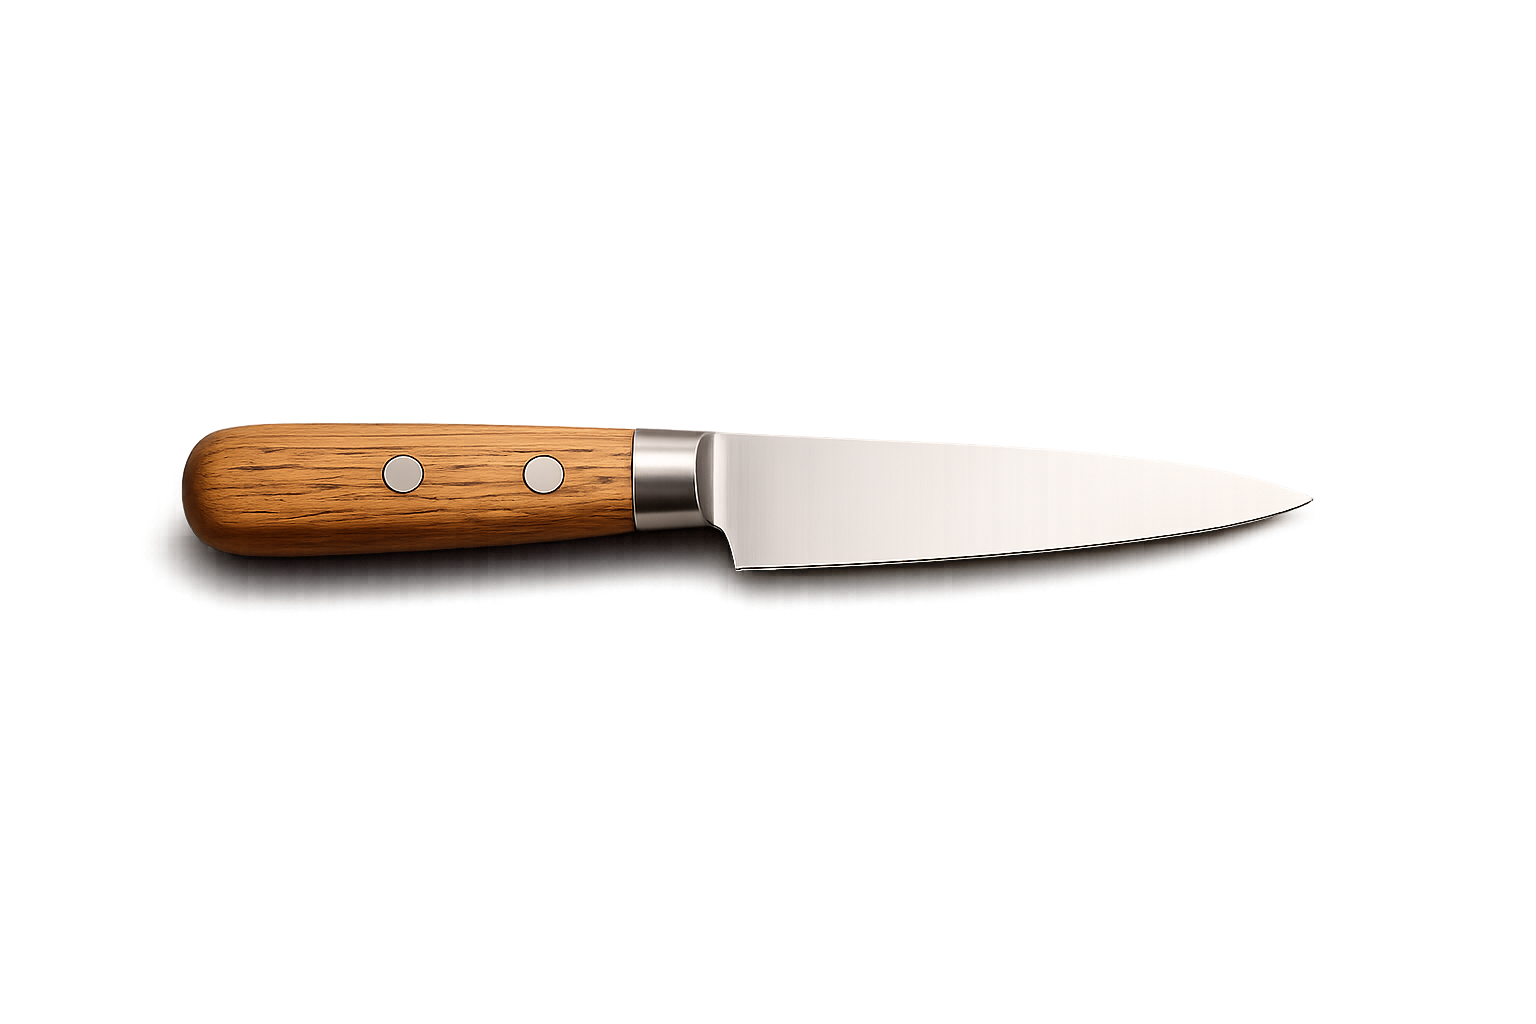
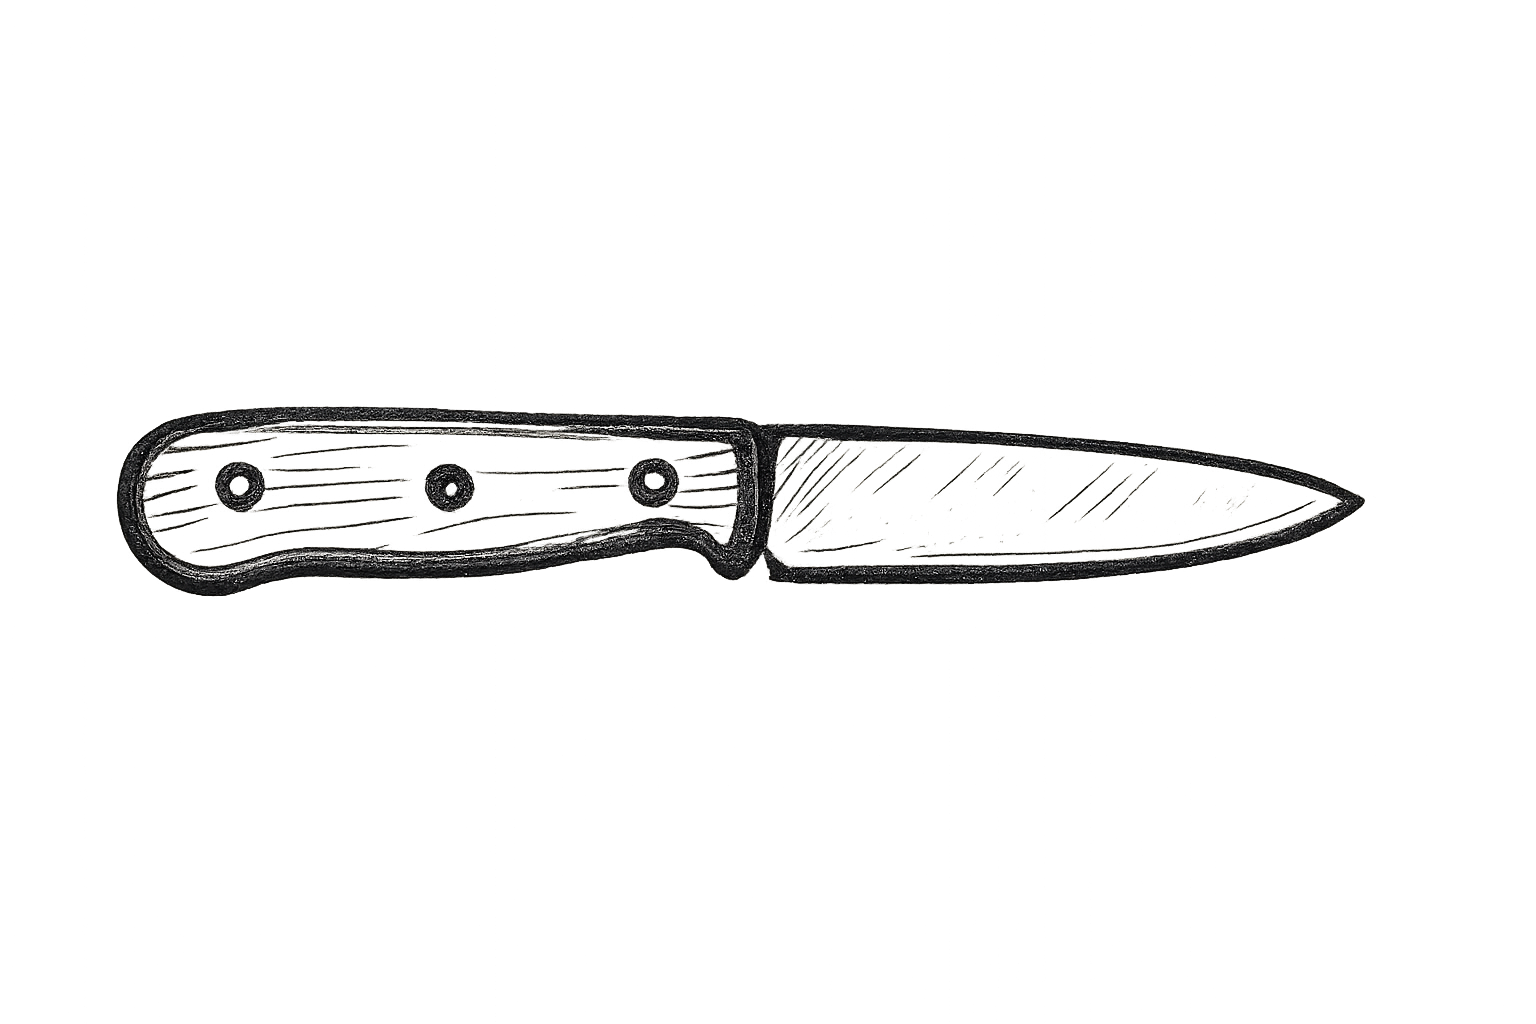
Om-side: fuld bredde bento (væk fra snæver midter-kolonne)
/knivslibning-nykoebing-falster lå i en 760px kolonne midt på siden. Nu fuld
bredde i bento: foto-panel (CTAShop) ved siden af kicker+overskrift+CTA'er, og
indholdet i to brede kort side om side. Al SEO-tekst bevaret.

Changed region(s): [[0.0625, 0.375, 0.9062, 0.5938]]

diff --git a/src/app/knivslibning-nykoebing-falster/page.tsx b/src/app/knivslibning-nykoebing-falster/page.tsx
@@ -1,5 +1,7 @@
 import type { Metadata } from "next";
 import Link from "next/link";
+import { ImagePanel } from "@/components/ImagePanel";
+import ctaShop from "@/img/hero/CTAShop.jpg";
 
 export const metadata: Metadata = {
   title: "Knivslibning i Nykøbing Falster – Sundby Sliberi",
@@ -19,48 +21,66 @@ export const metadata: Metadata = {
 export default function KnivslibningNykoebingFalster() {
   return (
     <main className="mx-auto w-full max-w-none px-[20px] py-[48px] md:px-[32px] lg:px-[48px] xl:px-[72px] md:py-[64px]">
-      <div className="mx-auto w-full max-w-[760px]">
-        <p className="kicker text-accent">Om Sundby Sliberi</p>
-        <h1 className="mt-[14px] font-display text-[36px] uppercase leading-[1.05] text-ink md:text-[52px]">
-          Knivslibning i Sundby, Nykøbing Falster
-        </h1>
+      {/* Bento-hero — fylder bredden */}
+      <div className="grid gap-[16px] lg:grid-cols-[1.1fr_0.9fr]">
+        <div className="flex flex-col justify-center rounded-[24px] bg-panel p-[28px] md:p-[48px]">
+          <p className="kicker text-accent">Om Sundby Sliberi</p>
+          <h1 className="mt-[14px] font-display text-[36px] uppercase leading-[1.05] text-ink md:text-[56px]">
+            Knivslibning i Sundby, Nykøbing Falster
+          </h1>
+          <p className="mt-[20px] max-w-[52ch] text-[16px] leading-relaxed text-muted md:text-[18px]">
+            Skarp, nænsom slibning af knive, værktøj og maskinklinger — lokalt på Lolland-Falster. Du
+            afleverer dine ting hos os, så ringer vi dig op og aftaler pris og leveringsdag.
+          </p>
+          <div className="mt-[28px] flex flex-wrap gap-[12px]">
+            <Link
+              href="/bestil"
+              className="inline-flex items-center justify-center rounded-full bg-accent px-[24px] py-[13px] text-[15px] font-medium text-white transition-colors hover:bg-accent-dark"
+            >
+              Bestil slibning
+            </Link>
+            <Link
+              href="/priser"
+              className="inline-flex items-center justify-center rounded-full border border-line px-[24px] py-[13px] text-[15px] font-medium text-ink transition-colors hover:border-accent hover:text-accent"
+            >
+              Se priser
+            </Link>
+          </div>
+        </div>
 
-        <div className="mt-[28px] rounded-[20px] border border-line bg-surface p-[24px] md:p-[36px]">
-          <h2 className="text-[20px] font-semibold text-ink">Lokal knivslibning på Lolland-Falster</h2>
-          <p className="mt-[12px] text-[16px] leading-relaxed text-muted">
+        <ImagePanel
+          src={ctaShop}
+          alt="Slibning hos Sundby Sliberi"
+          priority
+          rounded="rounded-[24px]"
+          className="min-h-[280px] lg:min-h-full"
+        />
+      </div>
+
+      {/* Indhold — to brede kort */}
+      <div className="mt-[16px] grid gap-[16px] md:grid-cols-2">
+        <section className="rounded-[20px] border border-line bg-surface p-[24px] md:p-[36px]">
+          <h2 className="text-[22px] font-semibold text-ink">Lokal knivslibning på Lolland-Falster</h2>
+          <p className="mt-[14px] text-[16px] leading-relaxed text-muted">
             Hos Sundby Sliberi tilbyder vi skarp og nænsom slibning af køkkenknive, værktøj og
             maskinklinger – lokalt i Sundby, Nykøbing Falster. Du afleverer dine ting hos os, og med
             mange års erfaring i slibning får du et resultat, du kan stole på hver gang. Det skal være
             let og tilgængeligt for alle – uanset om du er amatør eller professionel.
           </p>
+        </section>
 
-          <h2 className="mt-[28px] text-[20px] font-semibold text-ink">Sådan bestiller du knivslibning</h2>
-          <p className="mt-[12px] text-[16px] leading-relaxed text-muted">
+        <section className="rounded-[20px] border border-line bg-surface p-[24px] md:p-[36px]">
+          <h2 className="text-[22px] font-semibold text-ink">Sådan bestiller du knivslibning</h2>
+          <p className="mt-[14px] text-[16px] leading-relaxed text-muted">
             Bestillingen foregår online: vælg hvad du vil have slebet, og udfyld dine oplysninger. Når
             vi har modtaget din bestilling, ringer vi dig op og aftaler pris og leveringsdag.
           </p>
-        </div>
-
-        <div className="mt-[24px] flex flex-wrap gap-[12px]">
-          <Link
-            href="/bestil"
-            className="inline-flex items-center justify-center rounded-full bg-accent px-[24px] py-[13px] text-[15px] font-medium text-white transition-colors hover:bg-accent-dark"
-          >
-            Bestil slibning
-          </Link>
-          <Link
-            href="/priser"
-            className="inline-flex items-center justify-center rounded-full border border-line px-[24px] py-[13px] text-[15px] font-medium text-ink transition-colors hover:border-accent hover:text-accent"
-          >
-            Se priser
-          </Link>
-        </div>
-
-        <p className="mt-[24px] text-[15px] leading-relaxed text-muted">
-          Vi sliber blandt andet kokkeknive, urteknive, brødknive, økser, stemmejern,
-          plæneklipperklinger og meget mere. Er du i tvivl, om vi kan hjælpe med din skærekant, er du
-          altid velkommen til at kontakte os.
-        </p>
+          <p className="mt-[14px] text-[16px] leading-relaxed text-muted">
+            Vi sliber blandt andet kokkeknive, urteknive, brødknive, økser, stemmejern,
+            plæneklipperklinger og meget mere. Er du i tvivl, om vi kan hjælpe med din skærekant, er du
+            altid velkommen til at kontakte os.
+          </p>
+        </section>
       </div>
     </main>
   );